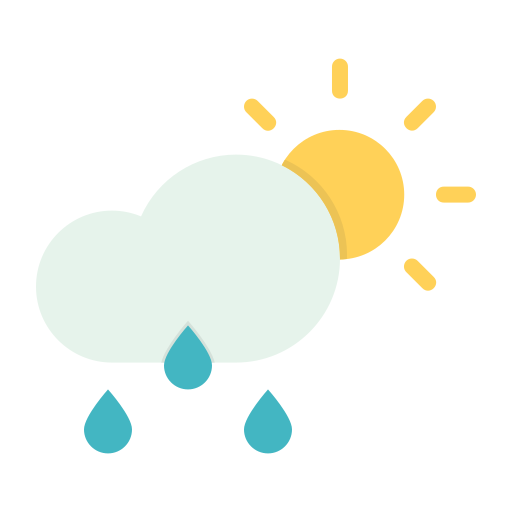
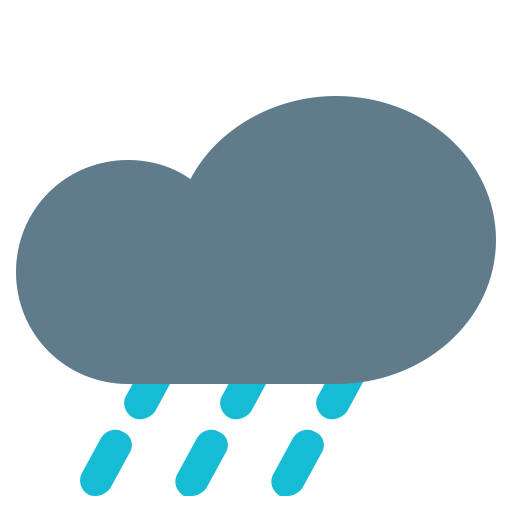
Improved MainIcon response to API

diff --git a/W2.HomeWor/javascript.js b/W2.HomeWor/javascript.js
@@ -61,75 +61,83 @@ let weeks = [
   "Saturday",
 ];
 
-function realTemp(response) {
-  //retrieve temperature
-  let realTemp = Math.round(response.data.main.temp);
-  let newTemp = document.querySelector("#currentTemp");
-  newTemp.innerHTML = `${realTemp}`;
-}
-
 function celsiusTemp(event) {
   //Display Celsius
   event.preventDefault();
-  let inputCity = document.querySelector("#input-city");
-
-  let cityName = `${inputCity.value}`;
+  let cityName = document.querySelector("#city").innerHTML;
   let apiKey = "14b4ec50bfdac6afc3e3c9dd658e26fe";
   let units = "metric";
-  let apiUrl = `http://api.openweathermap.org/data/2.5/weather?q=${cityName}&appid=${apiKey}&units=${units}`;
+  let apiUrl = `https://api.openweathermap.org/data/2.5/weather?q=${cityName}&appid=${apiKey}&units=${units}`;
 
-  axios.get(apiUrl).then(realTemp);
+  axios.get(apiUrl).then(displayWeatherConditions);
 }
 
 function fahrenheightTemp(event) {
   //Display Fahrenheight
   event.preventDefault();
 
-  let inputCity = document.querySelector("#input-city");
-    let cityName = `${inputCity.value}`;
-    let apiKey = "14b4ec50bfdac6afc3e3c9dd658e26fe";
-    let units = "imperial";
-    let apiUrl = `http://api.openweathermap.org/data/2.5/weather?q=${cityName}&appid=${apiKey}&units=${units}`;
-
-    axios.get(apiUrl).then(realTemp);
-
+  let cityName = document.querySelector("#city").innerHTML;
+  let apiKey = "14b4ec50bfdac6afc3e3c9dd658e26fe";
+  let units = "imperial";
+  let apiUrl = `https://api.openweathermap.org/data/2.5/weather?q=${cityName}&appid=${apiKey}&units=${units}`;
+  console.log(apiUrl);
+  axios.get(apiUrl).then(displayWeatherConditions);
 }
 
-function searchCity(event) {
-  //Display City
-  event.preventDefault();
+function displayWeatherConditions(response) {
+  document.querySelector("h1").innerHTML = response.data.name;
+  document.querySelector("#currentTemp").innerHTML = Math.round(
+    response.data.main.temp
+  );
+  console.log(response.data);
 
-  let inputCity = document.querySelector("#input-city");
-  let newCity = document.querySelector("h1");
-  newCity.innerHTML = `${inputCity.value}`;
+  let mainIcon = document.querySelector("#mainIcon");
+  console.log(response.data.weather[0].main.toLowerCase());
+  if (response.data.weather[0].main.toLowerCase() === "clear") {
+    mainIcon.setAttribute("src", "/Sun.png");
+  } else {
+    if (response.data.weather[0].main.toLowerCase() === "rain") {
+      mainIcon.setAttribute("src", "/Rain.png");
+    } else {
+      if (response.data.weather[0].main.toLowerCase() === "drizzle") {
+        mainIcon.setAttribute("src", "/Drizzle.png");
+      } else {
+        if (response.data.weather[0].main.toLowerCase() === "clouds") {
+          mainIcon.setAttribute("src", "/Cloudy.png");
+        }
+      }
+    }
+  }
+}
 
-  let cityName = `${inputCity.value}`;
+function search(city) {
   let apiKey = "14b4ec50bfdac6afc3e3c9dd658e26fe";
   let units = "metric";
-  let apiUrl = `http://api.openweathermap.org/data/2.5/weather?q=${cityName}&appid=${apiKey}&units=${units}`;
-  axios.get(apiUrl).then(realTemp);
-}
-function displayCurrentCity(response) {
-  let inputCity = response.data.name;
-  let newCity = document.querySelector("h1");
-  newCity.innerHTML = `${inputCity}`;
+  let apiUrl = `https://api.openweathermap.org/data/2.5/weather?q=${city}&appid=${apiKey}&units=${units}`;
+
+  axios.get(apiUrl).then(displayWeatherConditions);
 }
 
-function currentCity(position) {
+function handleSearchCity(event) {
+  //Display City
+  event.preventDefault();
+  let inputCity = document.querySelector("#input-city").value;
+  search(inputCity);
+}
+
+function sendCurrentCity(position) {
   //Display current city
   let lat = position.coords.latitude;
   let long = position.coords.longitude;
   let apiKey = "14b4ec50bfdac6afc3e3c9dd658e26fe";
   let units = "metric";
-  // need to display current city ant temp based on latitude
   let apiUrl = `https://api.openweathermap.org/data/2.5/weather?lat=${lat}&lon=${long}&appid=${apiKey}&units=${units}`;
   console.log(apiUrl);
-  axios.get(apiUrl).then(displayCurrentCity);
-  axios.get(apiUrl).then(realTemp);
+  axios.get(apiUrl).then(displayWeatherConditions);
 }
 
-function sendCurrentCity(event) {
-  navigator.geolocation.getCurrentPosition(currentCity);
+function getCurrentCity(event) {
+  navigator.geolocation.getCurrentPosition(sendCurrentCity);
 }
 
 let localDate = document.querySelector("#date");
@@ -138,7 +146,7 @@ console.log(now);
 localDate.innerHTML = fomratDate(now);
 
 let form = document.querySelector("#new-city");
-let apiUrl = form.addEventListener("submit", searchCity);
+let apiUrl = form.addEventListener("submit", handleSearchCity);
 
 let fahrenheight = document.querySelector("#fahrenheight-link");
 fahrenheight.addEventListener("click", fahrenheightTemp);
@@ -146,5 +154,7 @@ fahrenheight.addEventListener("click", fahrenheightTemp);
 let celsius = document.querySelector("#celsius-link");
 celsius.addEventListener("click", celsiusTemp);
 
-let cityForm = document.querySelector("#current-city");
-cityForm.addEventListener("submit", sendCurrentCity);
+let cityForm = document.querySelector("#currentCityButton");
+cityForm.addEventListener("click", getCurrentCity);
+
+search("Florence");

diff --git a/W2.HomeWor/index.html b/W2.HomeWor/index.html
@@ -13,7 +13,7 @@
       src="https://kit.fontawesome.com/ac64e04e51.js"
       crossorigin="anonymous"
     ></script>
-     <script src="https://cdn.jsdelivr.net/npm/axios/dist/axios.min.js"></script>
+    <script src="https://cdn.jsdelivr.net/npm/axios/dist/axios.min.js"></script>
     <link rel="stylesheet" href="style.css" />
 
     <title>Weather Forecast</title>
@@ -26,44 +26,44 @@
             <div class="col-8">
               <h1 class="location">Florence</h1>
               <h2>
-                <span class="currentTemp">It is currently: 19°C</span>
+                It is currently: <span id="currentTemp">19 </span>
+                <span class="tempUnits">
+                  <a href="#" id="celsius-link">°C</a>
+                  |
+                  <a href="#" id="farenheight-link">°F</a>
+                </span>
                 <br />
-                <span class="date">10th November 2020</span>
+                <span id="date">10th November 2020</span>
                 <br />
-                Time: <span class="localTime">16:00 CET</span>
+                Time: <span id="local-time">16:00 CET</span>
               </h2>
             </div>
             <div class="col-4">
-              <img
-                src="/Users/Brina/Desktop/Code/W2.HomeWor/Immg/Sun.png"
-                alt="sunny day"
-                class="mainIcon"
-              />
+              <img src="Sun.png" alt="sunny day" class="mainIcon" />
             </div>
           </div>
 
-          <form>
+          <form id="new-city">
             <input
               type="text"
               class="form-control"
-              id="inputCity"
-              placeholder=" Visualize another City"
+              id="input-city"
+              autocomplete="off"
+              placeholder=" Visualize forecast for another City"
             />
             <input
               type="submit"
               class="btn btn-outline-primary mb-2"
               value="Search"
+              id="searchButton"
             />
-
+          </form>
+          <form id="current-city">
             <input
               type="submit"
               class="btn btn-outline-primary mb-2"
-              value="°C"
-            />
-            <input
-              type="submit"
-              class="btn btn-outline-primary mb-2"
-              value="°F"
+              value="Current City"
+              id="currentCityButton"
             />
           </form>
           <br />
@@ -76,11 +76,7 @@
                   Today
                   <br />
                   10 Nov
-                  <img
-                    src="/Users/Brina/Desktop/Code/W2.HomeWor/Immg/Sun.png"
-                    alt="sunny day"
-                    class="secondaryIcon"
-                  />
+                  <img src="Sun.png" alt="sunny day" class="secondaryIcon" />
                   <br />
                   <strong>20°</strong>/ 11°
                 </p>
@@ -91,7 +87,7 @@
                   <br />
                   11 Nov
                   <img
-                    src="/Users/Brina/Desktop/Code/W2.HomeWor/Immg/Cloudy.png"
+                    src="Cloudy.png"
                     alt="cloudy day"
                     class="secondaryIcon"
                   />
@@ -105,7 +101,7 @@
                   <br />
                   12 Nov
                   <img
-                    src="/Users/Brina/Desktop/Code/W2.HomeWor/Immg/Cloudy.png"
+                    src="Cloudy.png"
                     alt="cloudy day"
                     class="secondaryIcon"
                   />
@@ -118,11 +114,7 @@
                   Friday
                   <br />
                   13 Nov
-                  <img
-                    src="/Users/Brina/Desktop/Code/W2.HomeWor/Immg/Sun.png"
-                    alt="sunny day"
-                    class="secondaryIcon"
-                  />
+                  <img src="Sun.png" alt="sunny day" class="secondaryIcon" />
                   <br />
                   <strong>20°</strong>/ 11°
                 </p>
@@ -133,7 +125,7 @@
                   <br />
                   14 Nov
                   <img
-                    src="/Users/Brina/Desktop/Code/W2.HomeWor/Immg/Cloudy.png"
+                    src="Cloudy.png"
                     alt="cloudy day"
                     class="secondaryIcon"
                   />
@@ -146,11 +138,7 @@
                   Sunday
                   <br />
                   15 Nov
-                  <img
-                    src="/Users/Brina/Desktop/Code/W2.HomeWor/Immg/Rain.png"
-                    alt="Rainy day"
-                    class="secondaryIcon"
-                  />
+                  <img src="Rain.png" alt="Rainy day" class="secondaryIcon" />
                   <br />
                   <strong>18°</strong>/ 12°
                 </p>
@@ -160,7 +148,6 @@
         </div>
       </div>
     </div>
-    <script type=“text/javascript” src=“javascript.js”>
-    </script>
+    <script src="javascript.js"></script>
   </body>
 </html>
